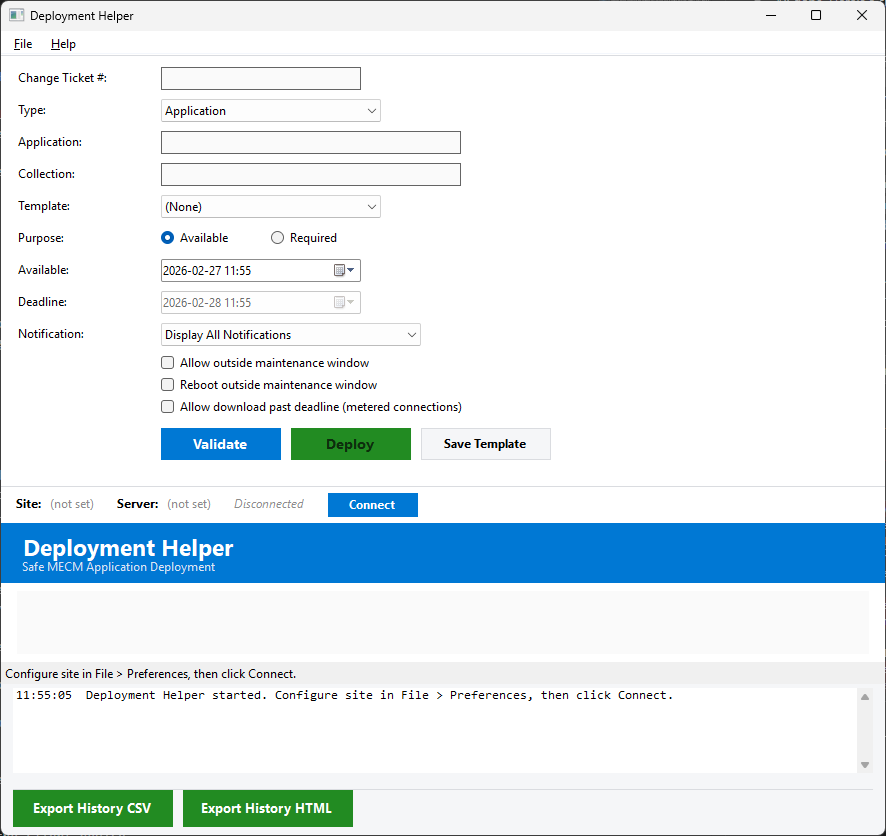
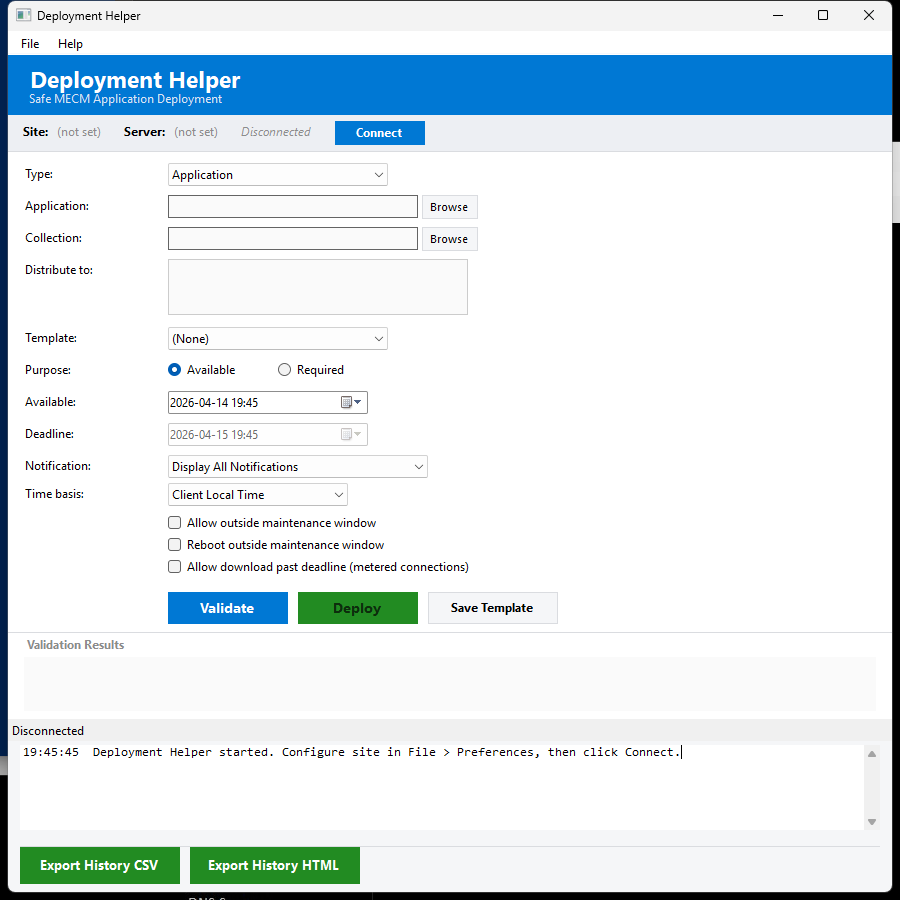
v1.4.0: Update README, screenshot for final release
Update README with v1.4.0 features: form reset, deployment type in
audit log, 22-function module, Pester test section, updated project
structure with Tests directory. Replace screenshot with corrected
layout (header at top, connection bar, validation label).

Changed region(s): [[0.0, 0.0, 1.0, 1.0]]

diff --git a/README.md b/README.md
@@ -10,15 +10,16 @@ Safe, fast MECM application and software update group deployment with pre-execut
 - **Application + SUG support** - Deploy applications or software update groups from the same interface
 - **Search dialogs** - Browse buttons for Application and Collection fields open search dialogs with filtered DataGridView results
 - **DP group distribution** - CheckedListBox of all DP groups, distribute content to selected groups before deployment
-- **5-check validation engine** - Application/SUG exists, content distributed, collection valid, collection safe (blocks built-in system collections), no duplicate deployment
+- **5-check validation engine** - Application/SUG exists, content distributed, collection valid, collection safe (blocks all `SMS000*` system collections), no duplicate deployment
 - **Safety guardrails** - All `SMS000*` built-in collections blocked, deploy button disabled until validation passes, confirmation dialog before execution
 - **Time basis** - Choose UTC or Client Local Time for Available/Deadline scheduling (both App and SUG)
 - **SUG download settings** - Allow download from default site boundary group, Microsoft Update, and post-reboot full scan (enabled by default)
 - **Metered connection handling** - Auto-checked for Required deployments (app and SUG)
 - **Deployment templates** - Predefined and user-saved configs, Save Template button in GUI
-- **Immutable audit log** - JSONL format (one JSON object per line), append-only, records every deployment attempt (success and failure)
-- **Export** - CSV and HTML history reports
-- **Dark mode** - Full theme support with 16 color variables
+- **Immutable audit log** - JSONL format (one JSON object per line), append-only, records every deployment attempt with deployment type (Application/SUG), success, and failure
+- **Form reset after deploy** - All fields reset to defaults after successful deployment to prevent accidental redeploy
+- **Export** - CSV and HTML history reports with deployment type column
+- **Dark mode** - Full theme support
 
 ## Requirements
 
@@ -51,8 +52,10 @@ Safe, fast MECM application and software update group deployment with pre-execut
 deploymenthelper/
     start-deploymenthelper.ps1          Main GUI application
     Module/
-        DeploymentHelperCommon.psd1     Module manifest (20 functions)
+        DeploymentHelperCommon.psd1     Module manifest (22 functions)
         DeploymentHelperCommon.psm1     Core module
+    Tests/
+        DeploymentHelperCommon.Tests.ps1  Pester 5 test suite (51 tests)
     Templates/
         WorkstationPilot.json           Deployment template
         WorkstationProduction.json
@@ -83,6 +86,16 @@ Templates are JSON files in the `Templates\` folder:
 ```
 
 New fields (`TimeBasedOn`, `AllowBoundaryFallback`, `AllowMicrosoftUpdate`, `RequirePostRebootFullScan`) are optional for backwards compatibility with older templates.
+
+## Testing
+
+Run unit tests locally (no CM console required):
+
+```powershell
+Invoke-Pester -Path .\Tests\DeploymentHelperCommon.Tests.ps1 -Output Detailed
+```
+
+51 tests cover all 22 exported module functions with mocked CM cmdlets. E2E validated against CM 2509.
 
 ## License
 
